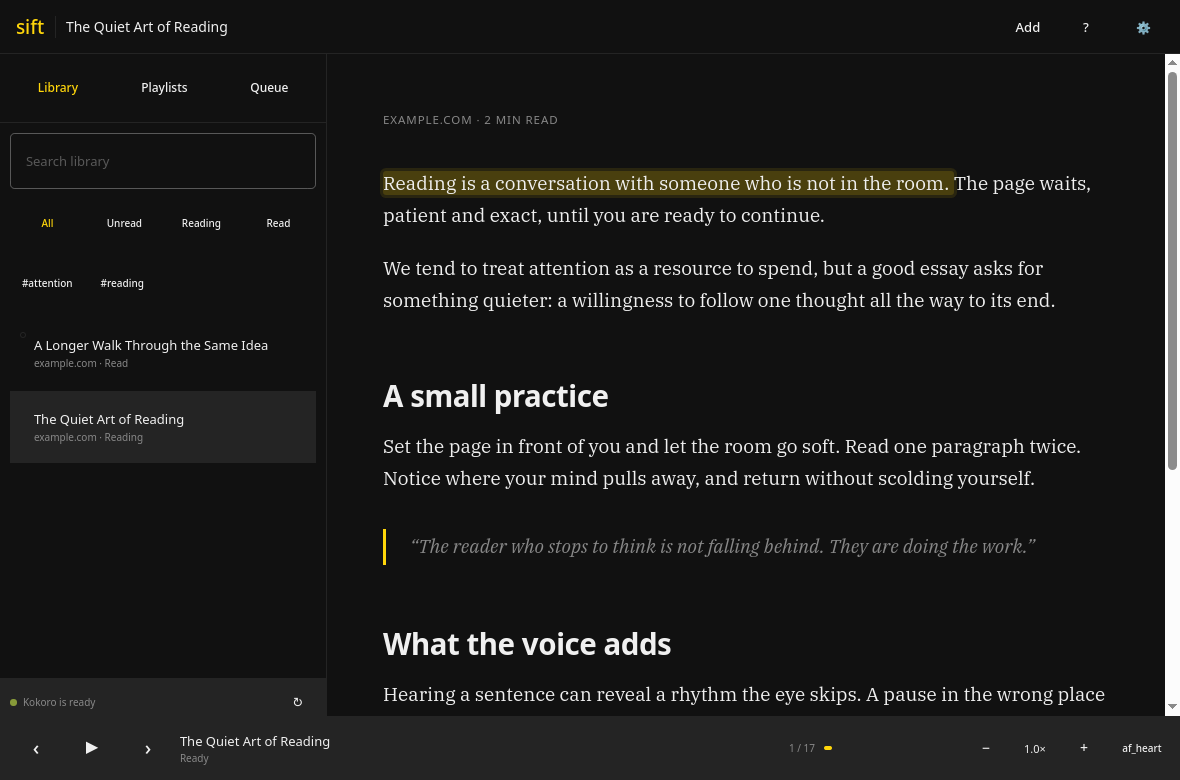
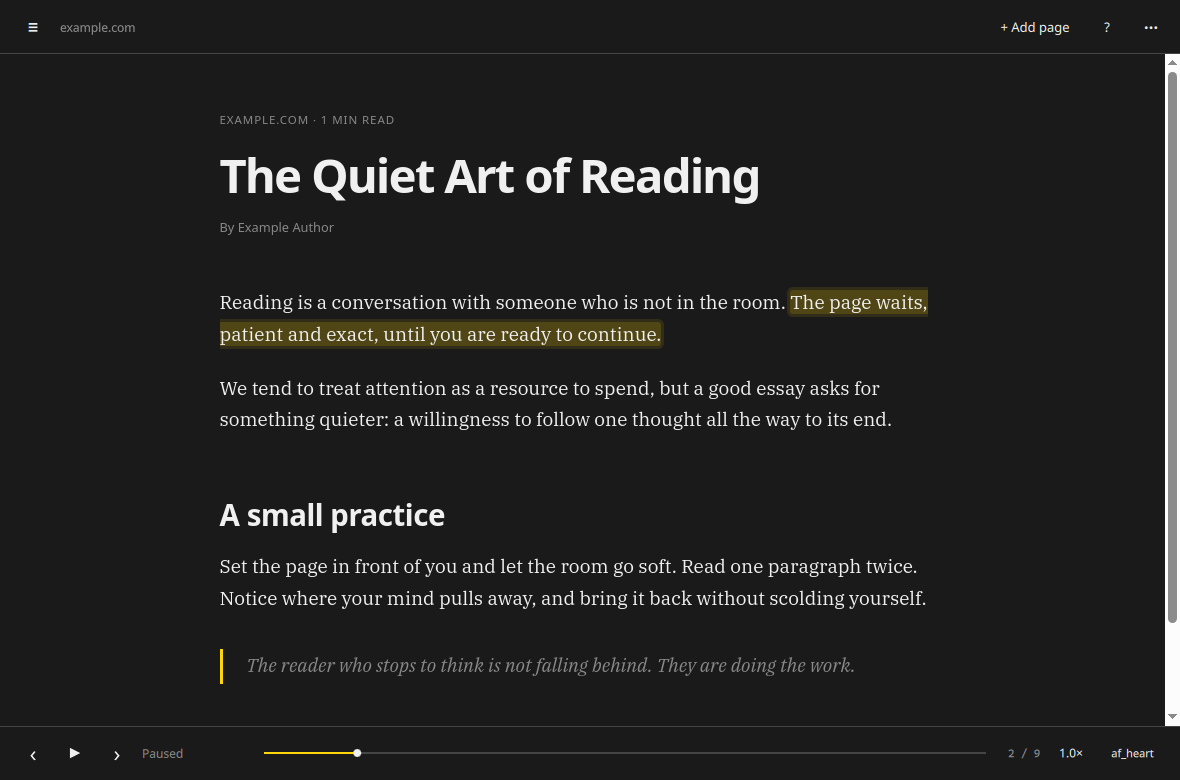
Give articles a readable introduction

diff --git a/src/reader.css b/src/reader.css
@@ -48,6 +48,13 @@ body {
 }
 
 #sift-header { margin-bottom: 3rem; }
+#sift-byline {
+    margin-top: 1rem;
+    color: var(--sift-muted);
+    font-family: "Noto Sans", "Liberation Sans", sans-serif;
+    font-size: 0.8rem;
+}
+#sift-byline:empty { display: none; }
 #sift-title {
     margin: 0;
     font-size: clamp(2rem, 4vw, 3rem);
@@ -221,6 +228,11 @@ mark {
     background: var(--sift-selection);
     color: var(--sift-fg);
 }
+
+::-webkit-scrollbar { width: 8px; height: 8px; }
+::-webkit-scrollbar-track { background: var(--sift-bg); }
+::-webkit-scrollbar-thumb { background: var(--sift-border); }
+::-webkit-scrollbar-thumb:hover { background: var(--sift-muted); }
 
 #sift-wrap .sift-footnotes,
 #sift-wrap [data-footnotes],

diff --git a/src/backend.cpp b/src/backend.cpp
@@ -681,6 +681,11 @@ QString Backend::buildReaderHtml(const QVariantMap &article) const {
     const int words = article.value("wordCount").toInt();
     const int minutes = qMax(1, (words + 219) / 220);
     const QString meta = tr("%1 · %2 min read").arg(domain).arg(minutes).toHtmlEscaped();
+    const QString author = article.value("author").toString().trimmed();
+    const QString published = article.value("published").toString().trimmed();
+    const QString byline = (author.isEmpty() ? QString() : tr("By %1").arg(author))
+        + (!author.isEmpty() && !published.isEmpty() ? QStringLiteral(" · ") : QString())
+        + published;
 
     const QString variables = QStringLiteral(
         ":root{--sift-bg:%1;--sift-fg:%2;--sift-muted:%3;--sift-accent:%4;"
@@ -699,9 +704,9 @@ QString Backend::buildReaderHtml(const QVariantMap &article) const {
         "form-action 'none'; connect-src 'none';\">"
         "<base href=\"%3\"><style>%4</style><style>%5</style></head>"
         "<body><main id=\"sift-wrap\"><header id=\"sift-header\"><div id=\"sift-meta\">%6</div>"
-        "<h1 id=\"sift-title\">%7</h1></header>"
-        "<article id=\"sift-content\">%8</article></main>"
-        "<script>%9</script></body></html>")
+        "<h1 id=\"sift-title\">%7</h1><div id=\"sift-byline\">%8</div></header>"
+        "<article id=\"sift-content\">%9</article></main>"
+        "<script>%10</script></body></html>")
         .arg(safeLanguage, dir, baseUrl, variables, css, meta,
-             article.value("title").toString().toHtmlEscaped(), content, js);
+             article.value("title").toString().toHtmlEscaped(), byline.toHtmlEscaped(), content, js);
 }
